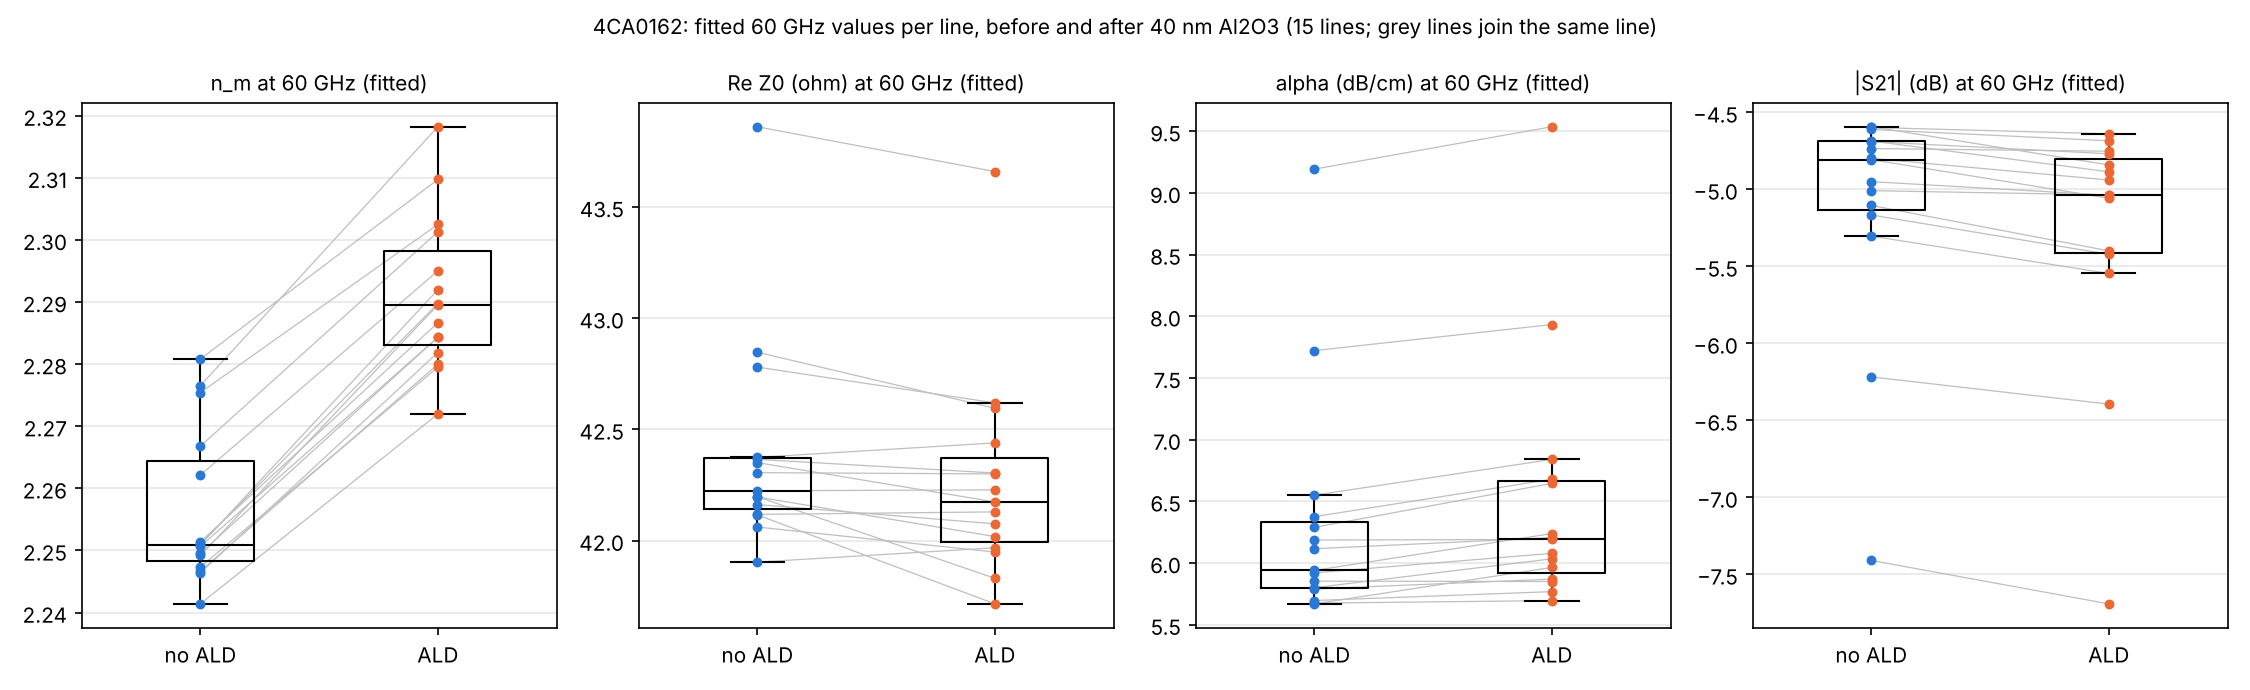
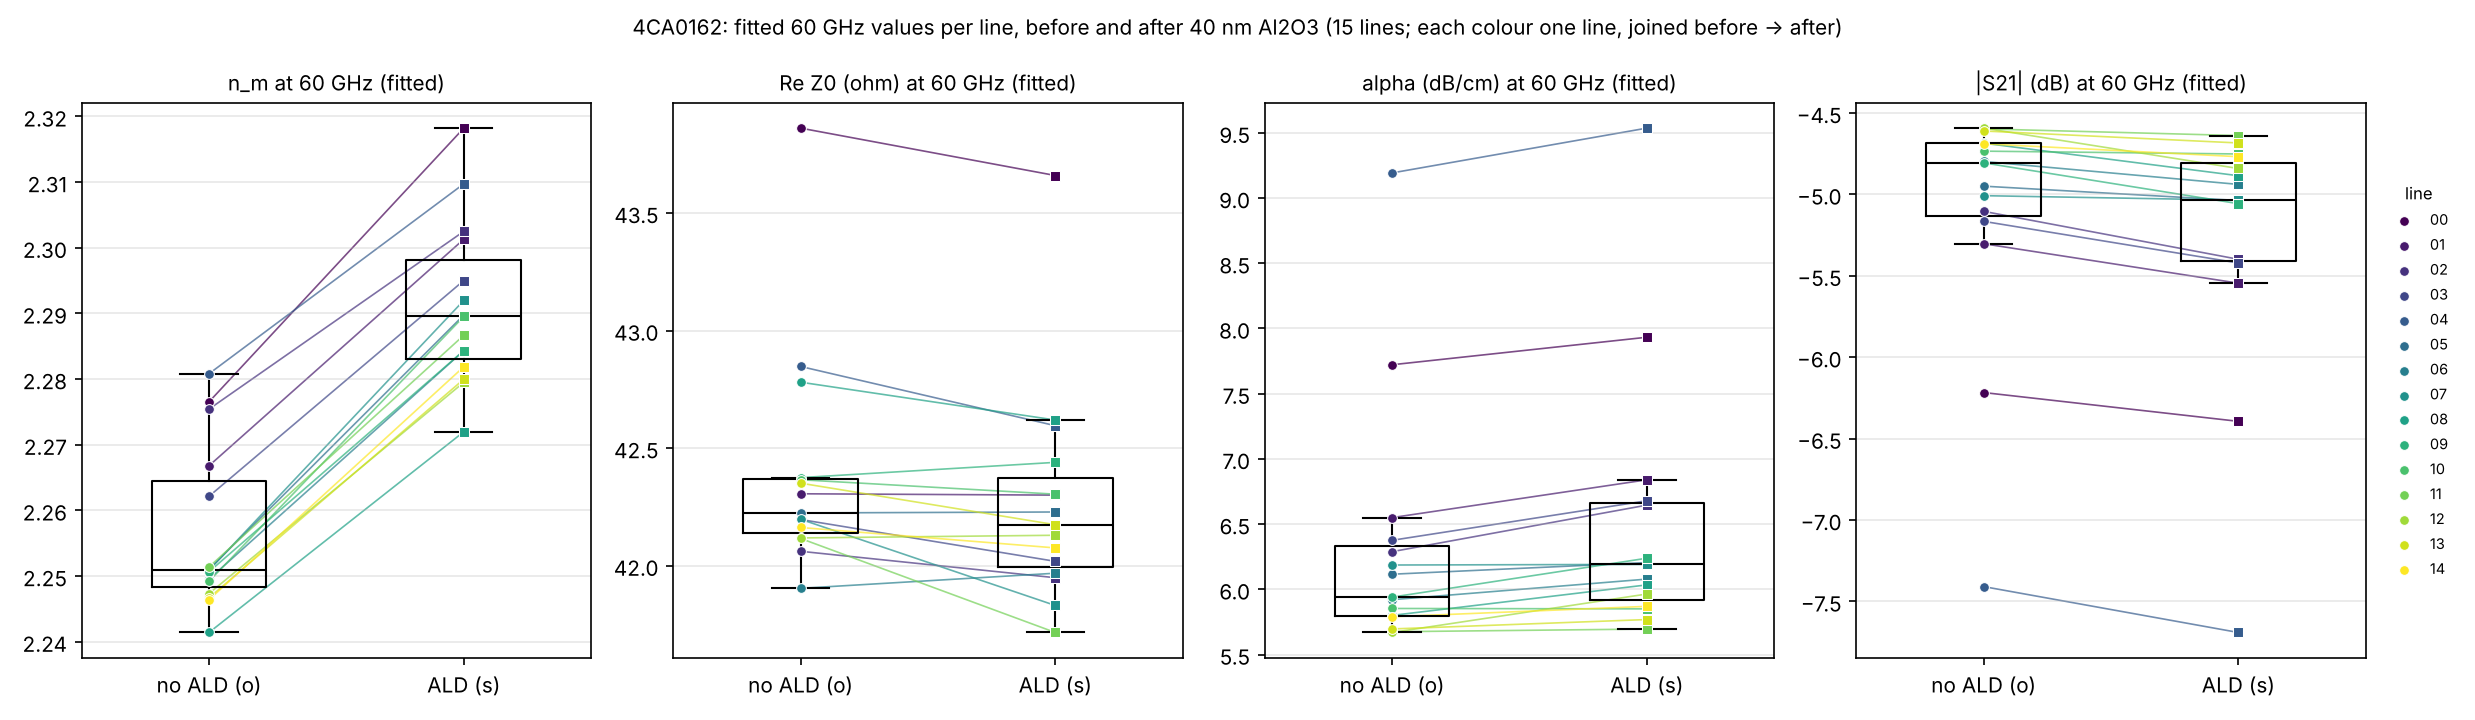
ALD boxplots: per-line colours and legend; folder for wafer 4CA0163
Claude-Session: https://claude.ai/code/session_01PF7RKNjFsSkyjm1syGCUrV

diff --git a/docs/measurements/ald_cordoba8mm/wafer_analysis.py b/docs/measurements/ald_cordoba8mm/wafer_analysis.py
@@ -105,14 +105,17 @@ for q in BQ:
         mad = np.median(abs(v - np.median(v))) * 1.4826
         out += [f"{s} {lines[i]}" for i in np.where(abs(v - np.median(v)) > 3 * mad)[0]] if mad > 0 else []
     print(f"  {q:14s} {np.median(a):9.4f} -> {np.median(b):9.4f}  (change {np.median(b - a):+.4f})  outliers: {', '.join(out) or 'none'}")
-fig, ax = plt.subplots(1, 4, figsize=(15, 4.6))
+fig, ax = plt.subplots(1, 4, figsize=(16.5, 4.8))
 for a, q in zip(ax, BQ):
     va = [V["noALD"][nn][q] for nn in lines]; vb = [V["ALD"][nn][q] for nn in lines]
     a.boxplot([va, vb], positions=[0, 1], widths=0.45, showfliers=False, medianprops=dict(color="k"))
-    for x0, y0, y1 in zip(np.zeros(len(lines)), va, vb):
-        a.plot([0, 1], [y0, y1], color="0.75", lw=0.6, zorder=1)
-    a.scatter(np.zeros(len(lines)), va, color=COL["noALD"], s=14, zorder=3); a.scatter(np.ones(len(lines)), vb, color=COL["ALD"], s=14, zorder=3)
-    a.set_xticks([0, 1]); a.set_xticklabels(["no ALD", "ALD"]); a.set_title(f"{q} at 60 GHz (fitted)", fontsize=10); a.grid(alpha=0.3, axis="y")
-fig.suptitle(f"{wafer}: fitted 60 GHz values per line, before and after 40 nm Al2O3 ({len(lines)} lines; grey lines join the same line)", fontsize=10)
+    for i, (nn, y0, y1) in enumerate(zip(lines, va, vb)):
+        c = cmap(i / (len(lines) - 1))
+        a.plot([0, 1], [y0, y1], color=c, lw=0.8, alpha=0.7, zorder=1)
+        a.scatter([0], [y0], color=c, marker="o", s=22, zorder=3, edgecolor="white", linewidth=0.5, label=nn)
+        a.scatter([1], [y1], color=c, marker="s", s=22, zorder=3, edgecolor="white", linewidth=0.5)
+    a.set_xticks([0, 1]); a.set_xticklabels(["no ALD (o)", "ALD (s)"]); a.set_title(f"{q} at 60 GHz (fitted)", fontsize=10); a.grid(alpha=0.3, axis="y")
+ax[-1].legend(fontsize=7, frameon=False, title="line", title_fontsize=8, loc="center left", bbox_to_anchor=(1.02, 0.5))
+fig.suptitle(f"{wafer}: fitted 60 GHz values per line, before and after 40 nm Al2O3 ({len(lines)} lines; each colour one line, joined before -> after)", fontsize=10)
 fig.tight_layout(); fig.savefig(os.path.join(OUT, "boxplots_60GHz.png"), dpi=150); plt.close(fig)
 print(f"\nfigures in {OUT}")

diff --git a/docs/measurements/ald_cordoba8mm/raw/4CA0163/README.md b/docs/measurements/ald_cordoba8mm/raw/4CA0163/README.md
@@ -1,0 +1,2 @@
+Upload here the 30 files of wafer 4CA0163 from `collect_ald_files.py` (`4CA0163_noALD_NN.s2p`, `4CA0163_ALD_NN.s2p`,
+NN = 00..14) and its `collect_log.csv`. Then: `python3 wafer_analysis.py 4CA0163` -> figures in `out_4CA0163/`.
